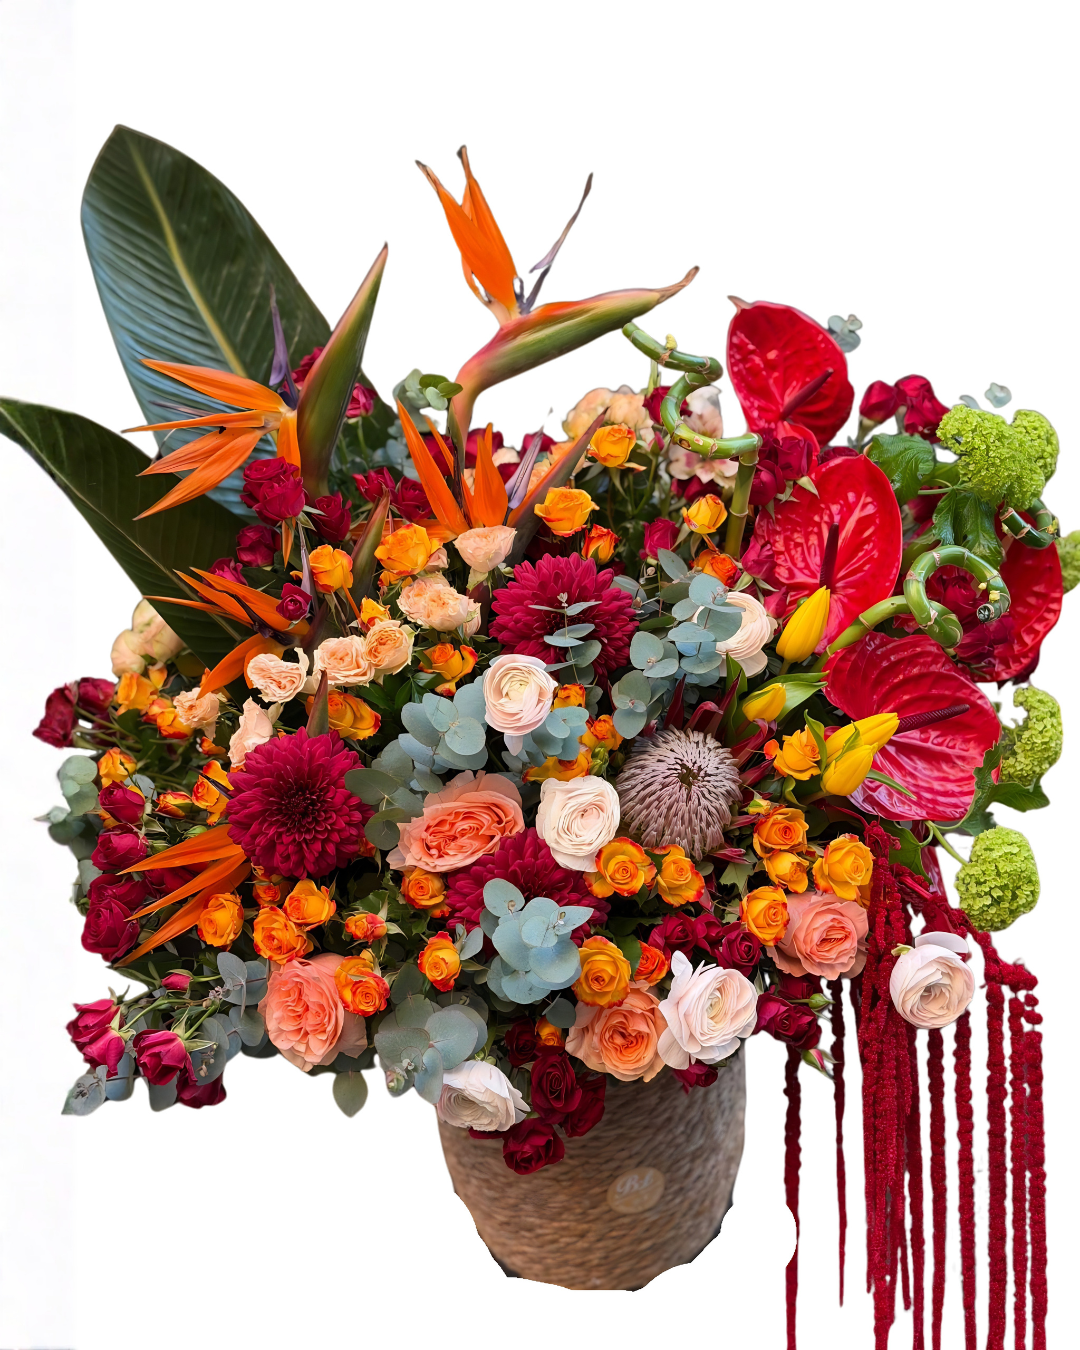
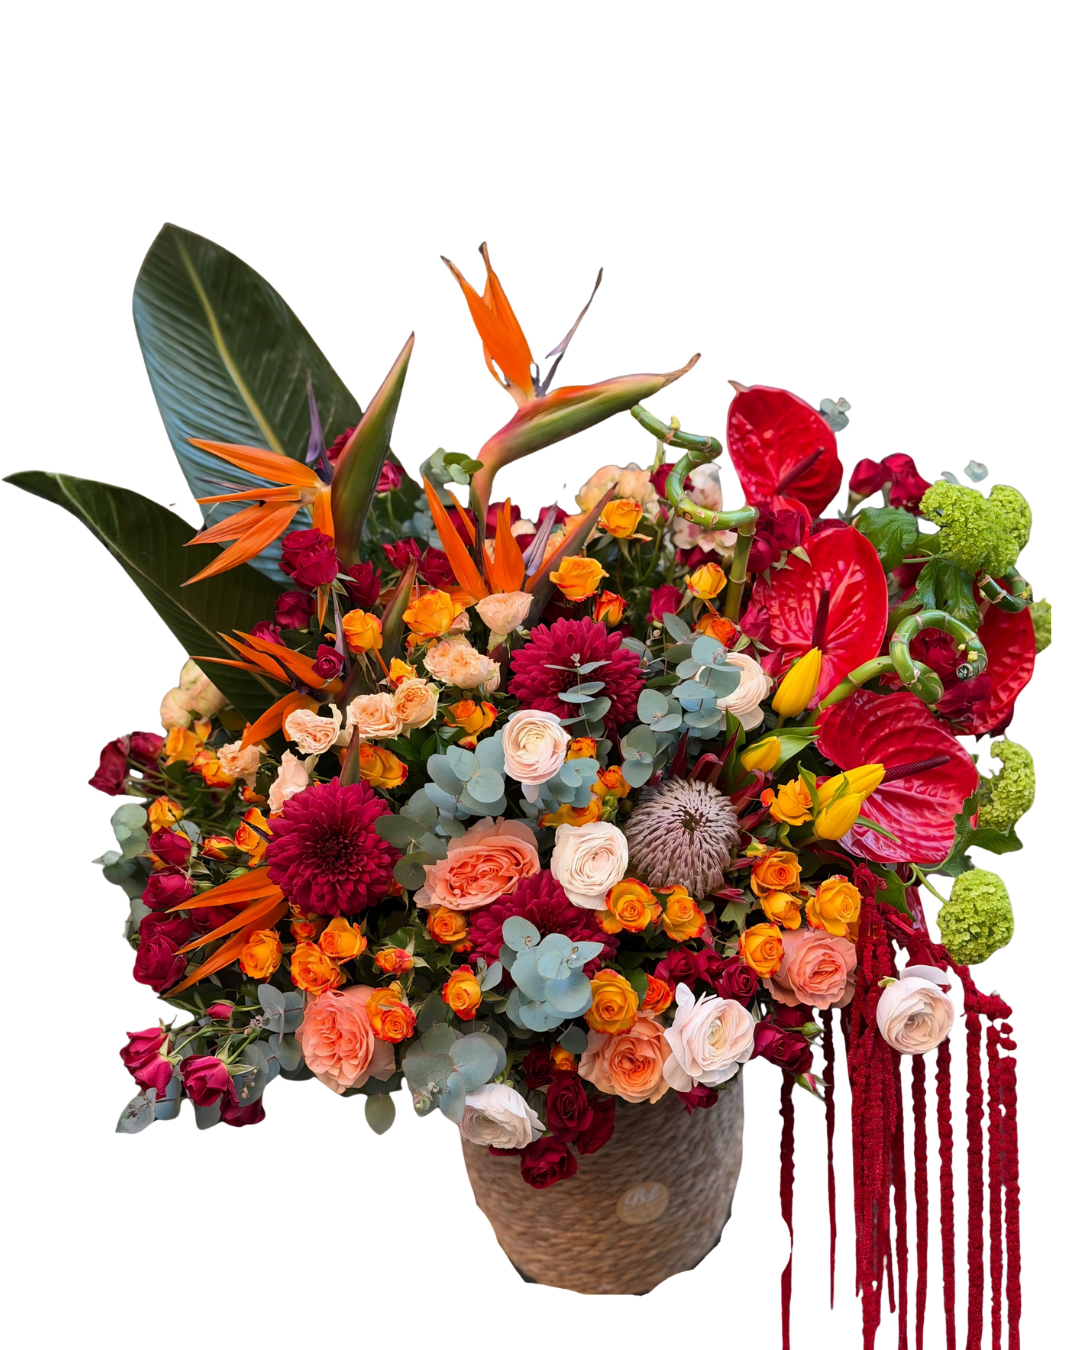
minimal changes on functionality

diff --git a/script.js b/script.js
@@ -81,7 +81,7 @@ const products = [
     position: "center center",
     badges: ["Signature"],
     description:
-      "Një buqetë e lehtë dhe romantike me roselini, e menduar për surpriza elegante dhe të ngrohta.",
+      "Një perandori me roselini në duart tuaja – buqeta që bashkon volumin me ëmbëlsinë.",
     details: [
       "Stil i butë dhe shumë i fotografueshëm.",
       "E përshtatshme për urime, simpati dhe falënderime.",
@@ -106,25 +106,25 @@ const products = [
     ],
   },
   {
-    id: "romantic-mix",
-    title: "Romantic Mix (E vogël)",
+    id: "romantic-mix-100-120",
+    title: "Romantic Mix",
     category: "Kompozime",
     price: "10,000 - 12,000 L",
     oldPrice: "",
     image: "./assets/listings/kompozimmix.png",
     position: "center center",
-    badges: ["New", "Hot"],
+    badges: ["Classic"],
     description:
-      "Kompozim me lule të miksuara dhe ritëm të pasur ngjyrash për një prezencë të gjallë e luksoze.",
+     "Ekuilibri perfekt mes volumit dhe delikatesës, dhurata më e kërkuar e koleksionit.",
     details: [
-          "Shportë rrethi me Luledele, Trëndafila dhe Anthuriums",
-      "Paletë ngjyrash pastel dhe fjongo rozë",
-      "Aromatike dhe me teksturë të pasur, në stil premium",
+         "Shportë rrethi me Luledele, Trëndafila dhe Anthuriums.",
+      "Teksturë e pasur në paletë ngjyrash pastel.",
+      "Prezencë elegante që spikat në çdo ambient."
     ],
   },
     {
-    id: "roselini-signature",
-    title: "Roselini Signature",
+    id: "roselini-150",
+    title: "Roselini Midi",
     category: "Roselini",
     price: "15,000 L",
     oldPrice: "",
@@ -134,94 +134,94 @@ const products = [
     description:
       "Një buqetë e lehtë dhe romantike me roselini, e menduar për surpriza elegante dhe të ngrohta.",
     details: [
-      "Stil i butë dhe shumë i fotografueshëm.",
-      "E përshtatshme për urime, simpati dhe falënderime.",
-      "Dërgesë e shpejtë brenda qytetit.",
+      "Qindra petale roselini në një kompozim sferik e të dendur.",
+      "Paketim editorial që nxjerr në pah nuancat delikate.",
+      "Zgjedhja ideale për përvjetorë dhe surpriza romantike."
     ],
   },
     {
-    id: "romantic-mix",
-    title: "Romantic Mix (Medium)",
+    id: "romantic-mix-200",
+    title: "Tropical Mix",
     category: "Kompozime",
     price: "20,000 L",
     oldPrice: "",
     image: "./assets/listings/mix200.png",
     position: "center center",
-    badges: ["New", "Hot"],
+    badges: ["Exotic"],
     description:
-      "Kompozim me lule të miksuara dhe ritëm të pasur ngjyrash për një prezencë të gjallë e luksoze.",
+      "Një shpërthim ngjyrash dhe formash ekzotike për një impakt unik.",
     details: [
-      "Mix sezonal i kuruar nga floristët tanë.",
-      "Silhuetë e plotë dhe vizual shumë i pasur.",
-      "I përshtatshëm për evente dhe surpriza familjare.",
+      "Mix sezonal me Birds of Paradise dhe lule ekzotike.",
+      "Strukturë monumentale në shportë artizanale.",
+      "Prezencë e gjallë që transformon çdo ambient.",
     ],
   },
     {
-    id: "romantic-mix",
-    title: "Romantic Mix (Large)",
+    id: "romantic-mix-250",
+    title: "Grand Basket",
     category: "Kompozime",
     price: "25,000 L",
     oldPrice: "",
     image: "./assets/listings/mix250.png",
     position: "center center",
-    badges: ["New", "Hot"],
+    badges: ["Classic"],
     description:
-      "Kompozim me lule të miksuara dhe ritëm të pasur ngjyrash për një prezencë të gjallë e luksoze.",
+      "Kryevepra jonë e miksuar më voluminoze për evente dhe momente madhështore.",
     details: [
-      "Mix sezonal i kuruar nga floristët tanë.",
-      "Silhuetë e plotë dhe vizual shumë i pasur.",
-      "I përshtatshëm për evente dhe surpriza familjare.",
+       "Seleksioni më i pasur i luleve të stinës.",
+      "Siluetë e plotë me detaje luksoze dhe perla.",
+      "Dizajn editorial i kuruar për impakt maksimal."
     ],
   },
   {
-    id: "romantic-mix",
-    title: "Romantic Mix (Economy)",
+    id: "romantic-mix-50-70",
+    title: "Sezonale Petite",
     category: "Kompozime",
     price: "5,000 - 7,000 L",
     oldPrice: "",
     image: "./assets/listings/mix50-70.png",
     position: "center center",
-    badges: ["New", "Hot"],
+    badges: ["Ekonomike"],
     description:
-      "Kompozim me lule të miksuara dhe ritëm të pasur ngjyrash për një prezencë të gjallë e luksoze.",
+      "Kompozim kompakt me ritëm të pasur ngjyrash për një prezencë të gjallë e luksoze.",
     details: [
-      "Shportë rrethi me Luledele, Trëndafila dhe Anthuriums",
+      "Buqetë me Tulipanë dhe/ose Peonies",
       "Paletë ngjyrash pastel dhe fjongo rozë",
       "Aromatike dhe me teksturë të pasur, në stil premium",
     ],
   },
   {
-    id: "royal-rose-dome",
-    title: "Royal Rose (small)",
+    id: "rose-100-120",
+    title: "Royal Rose Compact",
     category: "Koleksioni Premium",
     price: "10,000 - 12,000 L",
     oldPrice: "",
     image: "./assets/listings/whiterose.png",
     position: "center center",
-    badges: ["Hot", "Bestseller"],
+    badges: ["Premium"],
     description:
-      "Një kompozim monumental me 100 trëndafila mix premium për momente që duan impakt maksimal dhe elegancë teatrale.",
+      "Kompozim kompakt me trëndafila (jo vetëm) të bardhë si simbol i pastërtisë dhe elegancës absolute.",
     details: [
-      "Ideal për përvjetorë, propozime ose surpriza të mëdha.",
-      "Dërgim brenda Tiranës ose marrje direkte në dyqan.",
-      "Paketim premium dhe kartolinë sipas dëshirës.",
+      "Trëndafila premium me kërcej të gjatë dhe cilësi maksimale.",
+      "Paketim minimalist që thekson bukurinë e lules.",
+      "Zgjedhja elitare për momente që kërkojnë klas."
     ],
   },
  {
-    id: "romantic-mix",
-    title: "Romantic Mix",
+    id: "romantic-mix-50-60",
+    title: "Standard Mix",
     category: "Kompozime",
     price: "5,000 - 6,000 L",
     oldPrice: "",
     image: "./assets/listings/mix50-60.png",
     position: "center center",
-    badges: ["New", "Hot"],
+    badges: [ "Ekonomike"],
     description:
-      "Kompozim me lule të miksuara dhe ritëm të pasur ngjyrash për një prezencë të gjallë e luksoze.",
+      "Një vëmendje e matur me peshë të madhe emocionale, ideale për dhurata spontane.",
     details: [
-      "Mix sezonal i kuruar nga floristët tanë.",
-      "Silhuetë e plotë dhe vizual shumë i pasur.",
-      "I përshtatshëm për evente dhe surpriza familjare.",
+      "Kombinim i gjallë lulesh në format kompakt.",
+      "I kuruar me përkushtim për buxhete ekonomike.",
+      "Vjen me fjongo mëndafshi dhe paketim të pastër."
     ],
   },
 ];

diff --git a/styles.css b/styles.css
@@ -42,10 +42,11 @@ body {
   min-width: 320px;
   font-family: var(--sans);
   color: var(--text);
-  background:
+  /* background:
     radial-gradient(circle at top left, rgba(193, 161, 106, 0.08), transparent 22%),
     radial-gradient(circle at 80% 10%, rgba(167, 76, 99, 0.08), transparent 20%),
-    linear-gradient(180deg, #fcf8f3 0%, #f8f1ea 100%);
+    linear-gradient(180deg, #fcf8f3 0%, #f8f1ea 100%); */
+        background: var(--ivory);
   overflow-x: hidden;
 }
 
@@ -268,7 +269,7 @@ body.is-loaded .preloader {
 
 .site-header.is-solid {
   padding: 1rem 0;
-  background: rgba(251, 247, 242, 0.88);
+  background: rgba(243, 238, 230, 0.88);
   backdrop-filter: blur(18px);
   border-bottom: 1px solid var(--border);
 }
@@ -1255,8 +1256,8 @@ body.is-loaded .preloader {
 
 .testimonials {
   padding: 7rem 0;
-  background: var(--sand);
-}
+    background: var(--ivory);
+  }
 
 .testimonial-grid {
   display: grid;
@@ -1485,6 +1486,7 @@ body.is-loaded .preloader {
   grid-template-columns: 1fr 1fr;
   gap: 4rem;
   align-items: center;
+      background: var(--ivory);
 }
 
 .map-embed {
@@ -2063,7 +2065,7 @@ body.is-loaded .preloader {
 
 
 .product-card {
-justify-items:center;
+justify-items:center !important;
 }
 
 
@@ -2087,8 +2089,8 @@ justify-items:center;
   }
 
   .product-card__content {
-    gap: 0;
-    justify-items:center;
+        gap: 0.5rem;
+         justify-items:center !important;
   }
   .product-card__price {
     justify-content: center; /* Centers price when text-align is center */
@@ -2099,13 +2101,16 @@ justify-items:center;
     width: 100%;
     gap: 0.5rem;
   }
+  .product-card__category {
+    display:none;
+  }
 
   .product-card__button {
     width: 100%;
     flex: none; /* Disables the flex-grow that can cause shifts */
     min-height: 2.5rem; /* Slightly smaller buttons for mobile */
     font-size: 0.65rem;
-    padding: 0.6rem 0.5rem;
+    padding: 0.5rem 0.4rem;
   }
 
   /* Optional: Make the image slightly smaller to breathe */
@@ -2116,6 +2121,18 @@ justify-items:center;
   .nav-wa {
     width: 100%;
   }
+
+  .section-head{
+        align-items: start;
+    flex-direction: column;
+  }
+
+  .product-card__title {
+    font-size:1rem;
+  }
+.product-card__price strong {
+  font-size:1.15rem;
+}
 }
 
 @media (prefers-reduced-motion: reduce) {
